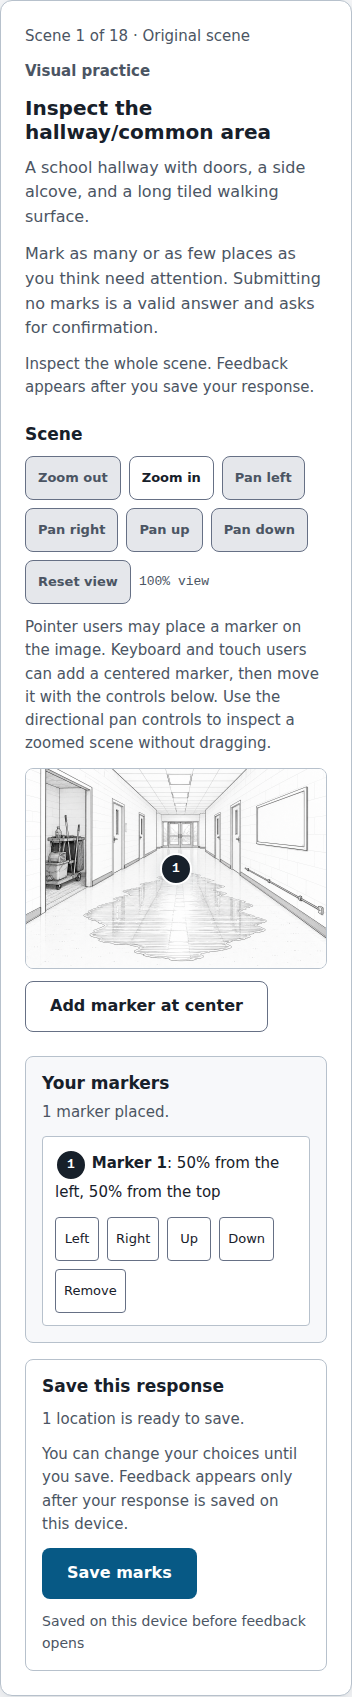
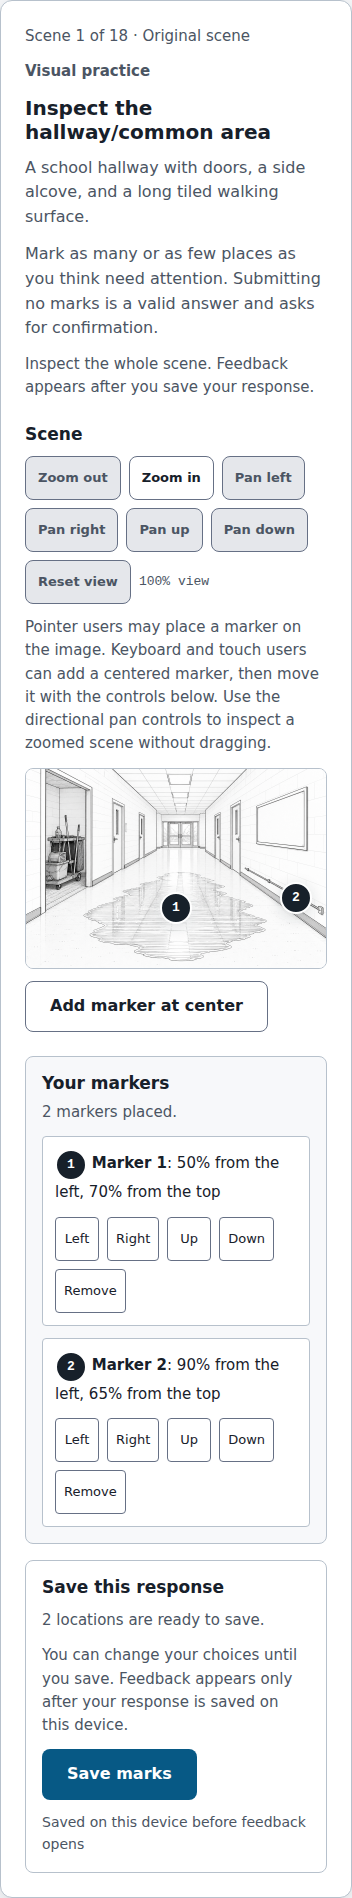
Present saved Hazard feedback within its marker cards

diff --git a/apps/site/src/hazard-player/react/marker-controls.tsx b/apps/site/src/hazard-player/react/marker-controls.tsx
@@ -1,5 +1,56 @@
+import type { ReactNode } from "react"
+import { assessVisualMarkers, type MarkerAssessment } from "../assessment.ts"
+import type { ReleasedPostcommitScene } from "../attempt.ts"
+import { decoyFeedbackForScene, targetFeedbackForScene } from "../released-scene.ts"
 import { draftFromState, isEditableHazardState } from "../state.ts"
 import { useHazardPlayer } from "./context.tsx"
+
+const markerFeedback = (
+  assessment: MarkerAssessment,
+  payload: ReleasedPostcommitScene
+): ReactNode => {
+  if (assessment.kind === "false_positive") {
+    return (
+      <p>
+        This mark does not match a recorded condition. It counts as an extra mark, but the site
+        cannot say what that object means.
+      </p>
+    )
+  }
+
+  if (assessment.kind === "decoy_false_positive") {
+    const decoy = decoyFeedbackForScene(payload, assessment.inventoryId)
+    return (
+      <p>
+        <strong>Safe as shown.</strong>{" "}
+        {decoy === undefined
+          ? "The detail you marked is safe as depicted in this scene."
+          : `${decoy.observableCondition.replace(/\.$/, "")}. Safe as depicted: ${decoy.safeAsDepicted}`}
+      </p>
+    )
+  }
+
+  const target = targetFeedbackForScene(payload, assessment.inventoryId)
+  if (assessment.kind === "duplicate") {
+    return (
+      <p>
+        <strong>Already marked.</strong>{" "}
+        {target === undefined
+          ? "Another marker already covers this hazard."
+          : `Another marker already covers ${target.observableCondition}.`}
+      </p>
+    )
+  }
+
+  return (
+    <p>
+      <strong>Hazard found.</strong>{" "}
+      {target === undefined
+        ? "This marker matches a condition that needs correction."
+        : `${target.observableCondition.replace(/\.$/, "")}. Immediate correction: ${target.immediateCorrection}`}
+    </p>
+  )
+}
 
 const markerStep = 0.025
 
@@ -7,6 +58,8 @@ export const HazardMarkerControls = () => {
   const { actions, meta, state } = useHazardPlayer()
   const editable = isEditableHazardState(state)
   const markers = draftFromState(state).markers
+  const saved = state.tag === "revealed" || state.tag === "reveal_failed"
+  const assessment = state.tag === "revealed" ? assessVisualMarkers(markers, state.payload) : null
 
   return (
     <section aria-labelledby={`${meta.instanceId}-marker-list`} className="hazard-player__markers">
@@ -25,7 +78,7 @@ export const HazardMarkerControls = () => {
                 <strong>Marker {index + 1}</strong>: {Math.round(marker.x * 100)}% from the
                 left, {Math.round(marker.y * 100)}% from the top
               </p>
-              <div aria-label={`Move marker ${index + 1}`} className="hazard-player__marker-moves">
+              {saved ? null : <div aria-label={`Move marker ${index + 1}`} className="hazard-player__marker-moves">
                 <button
                   aria-label={`Move marker ${index + 1} left`}
                   disabled={!editable}
@@ -66,7 +119,12 @@ export const HazardMarkerControls = () => {
                 >
                   Remove
                 </button>
-              </div>
+              </div>}
+              {state.tag === "revealed" && assessment?.markers[index] !== undefined ? (
+                <div className={`hazard-player__marker-feedback hazard-marker-${assessment.markers[index].kind}`}>
+                  {markerFeedback(assessment.markers[index], state.payload)}
+                </div>
+              ) : null}
             </li>
           ))}
         </ol>

diff --git a/apps/site/src/hazard-player/react/results.tsx b/apps/site/src/hazard-player/react/results.tsx
@@ -1,12 +1,9 @@
-import type { ReactNode } from "react"
 import {
   assessSelectedZones,
-  assessVisualMarkers,
-  type MarkerAssessment
+  assessVisualMarkers
 } from "../assessment.ts"
 import type { ReleasedPostcommitScene } from "../attempt.ts"
 import {
-  decoyFeedbackForScene,
   targetFeedbackForScene,
   zonedStatementsForScene
 } from "../released-scene.ts"
@@ -14,73 +11,13 @@ import { draftFromState } from "../state.ts"
 import { useHazardPlayer } from "./context.tsx"
 import { HazardPostcommitEquivalent, HazardSceneFacts } from "./scene-feedback.tsx"
 
-const markerFeedback = (
-  assessment: MarkerAssessment,
-  payload: ReleasedPostcommitScene
-): ReactNode => {
-  if (assessment.kind === "false_positive") {
-    return (
-      <p>
-        This mark does not match a recorded condition. It counts as an extra mark, but the site
-        cannot say what that object means.
-      </p>
-    )
-  }
-
-  if (assessment.kind === "decoy_false_positive") {
-    const decoy = decoyFeedbackForScene(payload, assessment.inventoryId)
-    return (
-      <p>
-        <strong>Safe as shown.</strong>{" "}
-        {decoy === undefined
-          ? "The detail you marked is safe as depicted in this scene."
-          : `${decoy.observableCondition}. Safe as depicted: ${decoy.safeAsDepicted}`}
-      </p>
-    )
-  }
-
-  const target = targetFeedbackForScene(payload, assessment.inventoryId)
-  if (assessment.kind === "duplicate") {
-    return (
-      <p>
-        <strong>Already marked.</strong>{" "}
-        {target === undefined
-          ? "Another marker already covers this hazard."
-          : `Another marker already covers ${target.observableCondition}.`}
-      </p>
-    )
-  }
-
-  return (
-    <p>
-      <strong>Hazard found.</strong>{" "}
-      {target === undefined
-        ? "This marker matches a condition that needs correction."
-        : `${target.observableCondition}. Immediate correction: ${target.immediateCorrection}`}
-    </p>
-  )
-}
-
 const VisualResults = ({ payload }: { readonly payload: ReleasedPostcommitScene }) => {
   const { state } = useHazardPlayer()
   const markers = draftFromState(state).markers
   const assessment = assessVisualMarkers(markers, payload)
 
   return (
-    <section aria-labelledby="visual-marker-feedback-heading">
-      <h3 id="visual-marker-feedback-heading">Marker feedback</h3>
-      {assessment.markers.length === 0 ? (
-        <p>You submitted no markers.</p>
-      ) : (
-        <ol>
-          {assessment.markers.map((result) => (
-            <li key={result.marker.id}>
-              <h4>Marker {result.markerNumber}</h4>
-              {markerFeedback(result, payload)}
-            </li>
-          ))}
-        </ol>
-      )}
+    <section aria-label="Unmarked hazards">
       {assessment.missedInventoryIds.length === 0 ? (
         <p>No hazard was left unmarked.</p>
       ) : (
@@ -91,7 +28,7 @@ const VisualResults = ({ payload }: { readonly payload: ReleasedPostcommitScene 
               const target = targetFeedbackForScene(payload, inventoryId)
               return target === undefined ? null : (
                 <li key={inventoryId}>
-                  {target.observableCondition}. Immediate correction: {target.immediateCorrection}
+                  {target.observableCondition.replace(/\.$/, "")}. Immediate correction: {target.immediateCorrection}
                 </li>
               )
             })}

diff --git a/apps/site/browser-tests/hazard-player.pw.ts b/apps/site/browser-tests/hazard-player.pw.ts
@@ -199,6 +199,10 @@ test("visual markers are durable before feedback fetch and restore exactly", asy
   await expect(page.getByRole("heading", {
     name: "You found 0 of 1 hazard in this scene. 1 extra or repeated mark was counted."
   })).toBeFocused()
+  await expect(page.locator(".hazard-player__marker-list")).toContainText("This mark does not match a recorded condition.")
+  await expect(page.getByRole("button", { name: "Add marker at center" })).toHaveCount(0)
+  await expect(page.getByRole("button", { name: /^Move marker/ })).toHaveCount(0)
+  await expect(page.getByRole("heading", { name: "Marker feedback", exact: true })).toHaveCount(0)
   expect(attemptObservedAtFetch).toMatchObject({
     id: visualAttemptId,
     sceneId: "s001",
@@ -531,4 +535,26 @@ test("a mismatched postcommit artifact leaves the durable response saved but unr
     markers: [{ id: "marker-1", x: 0.5, y: 0.5 }]
   })
   await expect(page.getByRole("button", { name: "Retry feedback" })).toBeEnabled()
+})
+
+
+test("saved marker cards pair each coordinate with its hazard or safe-detail feedback", async ({ page }) => {
+  await gotoReadyVisualHazard(page)
+  const scene = page.locator(".hazard-player__image-layer")
+  const bounds = await scene.boundingBox()
+  if (bounds === null) throw new Error("Scene image bounds unavailable")
+  await scene.click({ position: { x: bounds.width * 0.5, y: bounds.height * 0.7 } })
+  await scene.click({ position: { x: bounds.width * 0.9, y: bounds.height * 0.65 } })
+  await expect(page.locator(".hazard-player__marker-feedback")).toHaveCount(0)
+  await page.getByRole("button", { name: "Save marks", exact: true }).click()
+  const cards = page.locator(".hazard-player__marker-list > li")
+  await expect(cards.nth(0)).toContainText("Hazard found.")
+  await expect(cards.nth(1)).toContainText("Safe as shown.")
+  await expect(cards.nth(0)).toContainText("Marker 1")
+  await expect(cards.nth(1)).toContainText("Marker 2")
+  await expect(cards.getByRole("button")).toHaveCount(0)
+  await page.reload()
+  await expect(cards.nth(0)).toContainText("Hazard found.")
+  await expect(cards.nth(1)).toContainText("Safe as shown.")
+  await expect(cards.getByRole("button")).toHaveCount(0)
 })

diff --git a/apps/site/src/player-design.css b/apps/site/src/player-design.css
@@ -115,6 +115,9 @@
   .hazard-player__marker-list { display: grid; gap: var(--space-3); margin: 0; padding: 0; list-style: none; }
   .hazard-player__marker-list > li { padding: var(--space-3); border: var(--border-thin) solid var(--color-border); border-radius: var(--radius-sm); background: var(--color-surface); }
   .hazard-player__marker-list p { margin-block-end: var(--space-3); font-size: var(--text-sm); }
+  .hazard-player__marker-feedback p { margin-block-end: 0; }
+  .hazard-player__marker-feedback.hazard-marker-hit { color: var(--color-danger); }
+  .hazard-player__marker-feedback.hazard-marker-decoy_false_positive { color: var(--color-action); }
   .hazard-player__marker-moves button { min-inline-size: var(--target-default); min-block-size: var(--target-default); padding: var(--space-2); border: var(--border-thin) solid var(--color-border-control); border-radius: var(--radius-sm); background: var(--color-surface); color: var(--color-text); font-size: var(--text-xs); cursor: pointer; }
   .hazard-player__marker-moves button:disabled { cursor: not-allowed; color: var(--color-disabled-text); background: var(--color-disabled-surface); }
   .hazard-player__zones { min-inline-size: 0; margin: 0; padding: var(--space-4); border: var(--border-thin) solid var(--color-border); border-radius: var(--radius-md); }

diff --git a/apps/site/src/hazard-player/react/scene-viewport.tsx b/apps/site/src/hazard-player/react/scene-viewport.tsx
@@ -217,14 +217,14 @@ export const HazardSceneViewport = () => {
 
         </div>
       </div>
-      <button
+      {state.tag === "revealed" || state.tag === "reveal_failed" ? null : <button
         className="button button-secondary"
         disabled={!editable}
         onClick={() => actions.addMarker(0.5, 0.5)}
         type="button"
       >
         Add marker at center
-      </button>
+      </button>}
     </section>
   )
 }

diff --git a/design-review/2026-09-07/IMPLEMENTATION-STATUS.md b/design-review/2026-09-07/IMPLEMENTATION-STATUS.md
@@ -11,7 +11,7 @@ The active task is the complete handoff in `/mnt/models/dev/nycustodianexam/IMPL
 | Practice/Hazard builder | PRACTICE-BUILDER-REVIEW.md and HAZARD-BUILDER-REVIEW.md: effective builders, custom navigation and exact saved-history receipts | Hazard page composition updated with desktop/compact/no-JS evidence; Practice composition/direct-link focus updated with desktop/compact captures and three-browser checks; Practice/Hazard summaries reconciled with desktop/compact evidence and 15 targeted browser passes; final integrated comparison remains; CROSS-BROWSER-WORKFLOWS.md records 27 three-browser builder/Review passes, including real offline save/feedback; WebKit emulation issue isolated with a minimal reproduction; custom import passes in Chromium |
 | Atlas catalog | Nine-family desktop/compact controls, all 65 images, eligibility/failure states | ATLAS-RECORD-REVIEW.md: sampled record/family reflow, readable missing-image fallback, all 65 records audited and reference-only capture; matching 990px catalog comparison corrected five-column sizing/typography, with 12 three-browser checks and final-audit captures; closing provenance note and visible-failure recovery implemented with current release metadata, 15 browser checks, and 12 refreshed captures; platform typography differences and sampled record-view limits documented |
 | Question player | QUESTION-PLAYER-REVIEW.md: text card/action reconciliation, real-state captures, 14 browser checks | Illustrated binding, compiler, shared player and retained print image support implemented; q091 released in pack v4 with actual save/reload/Review checks and four captures; historical question/hazard import and activity restoration verified; no-JavaScript responsive illustration verified; 11 actual illustrated PDF pages inspected; illustrated estimates now match four captured PDF samples; origin-disconnected illustrated practice and historical custom feedback tested; real installed version-3 → version-4 upgrade passes in all three browsers with saved-question restoration and pinned simulation resumption; retry focus loss reproduced and corrected with 15 browser checks and eight captures; image zoom/reset and neutral description disclosure implemented with 21 browser checks and 12 captures; answered-state comparison added original option letters and support actions; 40 question-player browser checks pass with two intended BFCache skips; authored nonvisual schema/compiler/review-hash foundation added with 102 content tests and 224 unchanged release artifacts; revision-specific publication paths and runtime receipt guards added with 103 content tests, 16 targeted site tests, typecheck/build and 224 unchanged release artifacts; v4 inventory and original q091 files retained; multi-release historical generation and receipt-checked retained artifact loading/publication/offline inclusion implemented with synthetic v5 collision/retention tests; reviewed q091 nonvisual content compiled in pack v5/question revision 2; actual retained artifact publication verified with 1,352 routes and 182 unchanged original question files, 39 existing browser checks and 3 v4 export/import checks; Practice/Review linked nonvisual presentation, durable answer presentation and Review labeling implemented with 32 unit tests, 24 three-browser historical/nonvisual checks and six captures; simulation presentation/result identity implemented with 38 unit tests, 27 three-browser workflows and four actual-download captures; native nonvisual no-JavaScript disclosure verified in all three browsers with two final captures; actual installed v4-to-v5 upgrade, old simulation offline completion and new nonvisual offline save pass in all three browsers (UPGRADE-V4-V5.md); nonvisual print adaptation verified with 40 unit tests, 36 browser workflows across the full run and corrected fixture rerun, and four actual PDFs (ten inspected pages); all sample estimates now match; see print-nonvisual-audit/REVIEW.md |
-| Hazard player | HAZARD-PLAYER-REVIEW.md: responsive workspace, header/save panel, nine real-state captures and nine regression tests | Visual/keyboard layout, integrated retained-image overlay, correction/safe groups and compact recovery captured; matching-width audit corrected panel sizing, action layout and saved-feedback warning, with 15 fresh captures and 25 cross-browser passes (two intended BFCache skips); saved marker/feedback composition still needs reconciliation |
+| Hazard player | HAZARD-PLAYER-REVIEW.md: responsive workspace, header/save panel, nine real-state captures and nine regression tests | Visual/keyboard layout, integrated retained-image overlay, correction/safe groups and compact recovery captured; matching-width audit corrected panel sizing, action layout and saved-feedback warning, with 15 fresh captures and 25 cross-browser passes (two intended BFCache skips); saved marker feedback now appears in each retained marker card with edit controls removed after save; 28 cross-browser checks pass with two intended skips, and desktop/compact detail captures were inspected; final integrated validation remains |
 | Simulation player/results | SIMULATION-NAVIGATOR-REVIEW.md and SIMULATION-FLOW-REVIEW.md: navigator, player/timer and question-result captures at 1008/384; restore/focus checks; 24 three-browser regressions pass | Visual/keyboard hazard player/results now captured at both widths; no-concerns target corrected and six three-browser hazard regressions pass; final integrated audit and separate Static Assets check remain |
 | Print configuration | Ten products and effective controls; reviewed document scope | PRINT-OUTPUT-REVIEW.md: actual Letter/A4 question PDFs and searchable-text fix; preview rows/actions and warning/error panels reconciled; twelve ready/recovery captures and 27 three-browser print checks pass; fresh Letter/A4 PDFs retain searchable text; all 45 extended large-print/tool PDF pages audited and grid-fragmentation overlap fixed; current PDFs and per-page verification retained; 42 hazard worksheet/answer/text PDF pages audited with pagination fixes; large-print heading/URL sizing fixed with fresh PDF evidence; source-inclusive hazard estimates now finalize from assembled content; final other-product PDF refresh remains |
 | Exams / Settings / Offline / report | UTILITY-PAGES-REVIEW.md: first-visit desktop/compact captures, Settings action layout/Offline grouping and recovery checks | Delete preview cancellation/captures verified; returning saved-work counts and Offline installed summaries now use actual storage with empty/unavailable captures; export contents scope is disclosed; Exams header/compact cards and announcement-first ordering reconciled with six three-browser checks and refreshed overview/record captures; cycle responsive order/source disclosure reconciled with 17 generation tests and nine three-browser checks; source-bound filing classifications and combined URL-restored filters implemented with 22 unit and 12 three-browser checks; date milestones consolidated with bound-source metadata and matching compact rows; full-page audit captured; record-source consolidation, desktop filter alignment, and compact prompt removal verified with 60 browser checks and refreshed captures; sourced format section and compact spacing/footer added with three-browser source-navigation checks; compact cards now use native subject disclosures and badge-first hierarchy, verified with 24 browser checks; compact controls use a tested disclosure, footer retention reconciled with the navigation contract, and 69 design-handoff checks pass; remaining production-copy/height differences documented; report comparison remains; coverage action and three-browser navigation checks pass; all record/tab states captured; actual Offline active/removal/unavailable states captured |

diff --git a/design-review/2026-09-07/HAZARD-PLAYER-REVIEW.md b/design-review/2026-09-07/HAZARD-PLAYER-REVIEW.md
@@ -66,3 +66,32 @@ composition before closing the player audit. Real hallway content (four zones,
 one hazard) differs from the prototype stairwell fixture, and complete source
 claims/text equivalents are longer; those are intentional content differences.
 System-font rendering varies by platform. Final integrated validation remains.
+
+
+## Saved-marker feedback composition — September 9, 2026
+
+Each saved visual marker now contains its existing assessed explanation beneath
+the marker number and coordinates. Hit and safe-detail messages use textual
+labels plus red/blue treatments. The separate duplicate marker-feedback list is
+removed; missed-hazard feedback remains below the outcome. Marker movement,
+removal and addition controls disappear once the response is saved, including
+saved-but-unavailable feedback. During saving they remain disabled; failed saves
+still permit correction/retry. Feedback is rendered only from the revealed state.
+
+The full three-browser suite passes 28 checks, with two intentional BFCache
+skips. Added coverage checks hit/safe-detail card association and exact reload,
+while the existing extra-mark test verifies no edit controls or duplicate list
+remain. Durable-before-fetch assertions still pass. Site/browser typechecks and
+build/artifact verification pass.
+
+The refreshed visual captures use two actual pointer selections at normalized
+(0.5, 0.7) and (0.9, 0.65), exercising the hallway hazard and safe detail. The
+script asserts both feedback labels after saving. Full desktop saved output and
+readable marker close-ups at desktop/384px were visually inspected. A discovered
+doubled full stop in condition-plus-explanation formatting was corrected.
+
+This closes the saved-marker composition discrepancy recorded above. The full
+source claims, scene metadata and linked text equivalent remain longer than the
+prototype's short fixture. Final integrated validation and remaining page-family
+audits still apply; these observations are not manual assistive-technology
+certification.
